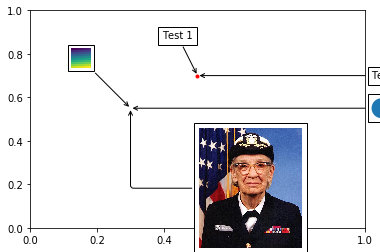
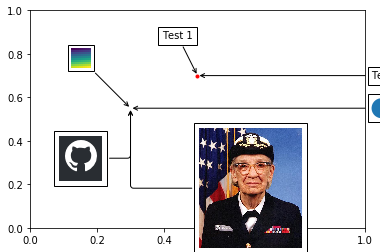
test passed : add cat

Changed region(s): [[0.1447, 0.5, 0.3474, 0.75]]

diff --git a/combineFig2Plot/demo.py b/combineFig2Plot/demo.py
@@ -92,6 +92,23 @@ if 1:
                         )
 
     ax.add_artist(ab)
+    
+    # add cat image
+    cat_img = plt.imread('cat.png', format='png')
+    imagebox = OffsetImage(cat_img)
+    imagebox.image.axes = ax
+
+    cat = AnnotationBbox(imagebox, xy,
+                        xybox=(-50., -50.),
+                        xycoords='data',
+                        boxcoords="offset points",
+                        pad=0.5,
+                        arrowprops=dict(
+                            arrowstyle="->",
+                            connectionstyle="angle,angleA=0,angleB=90,rad=3")
+                        )
+
+    ax.add_artist(cat)
 
     # Fix the display limits to see everything
     ax.set_xlim(0, 1)
